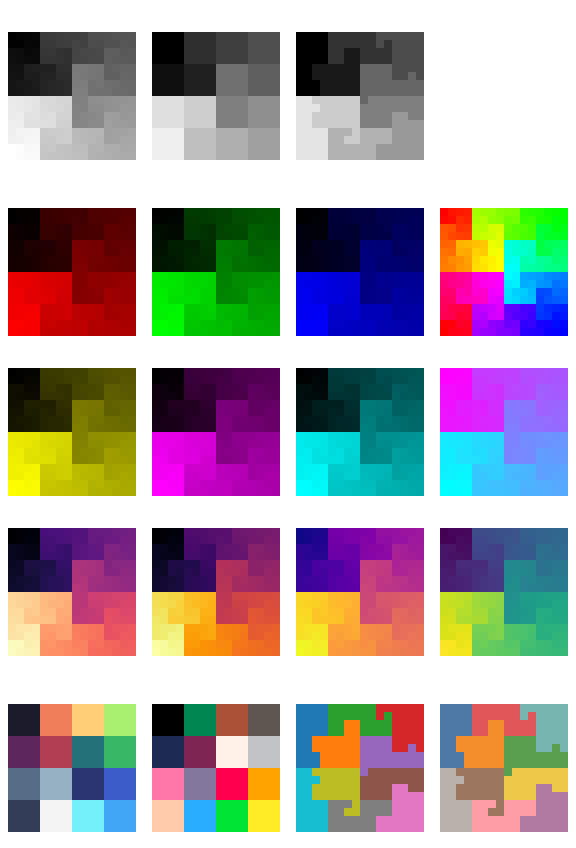
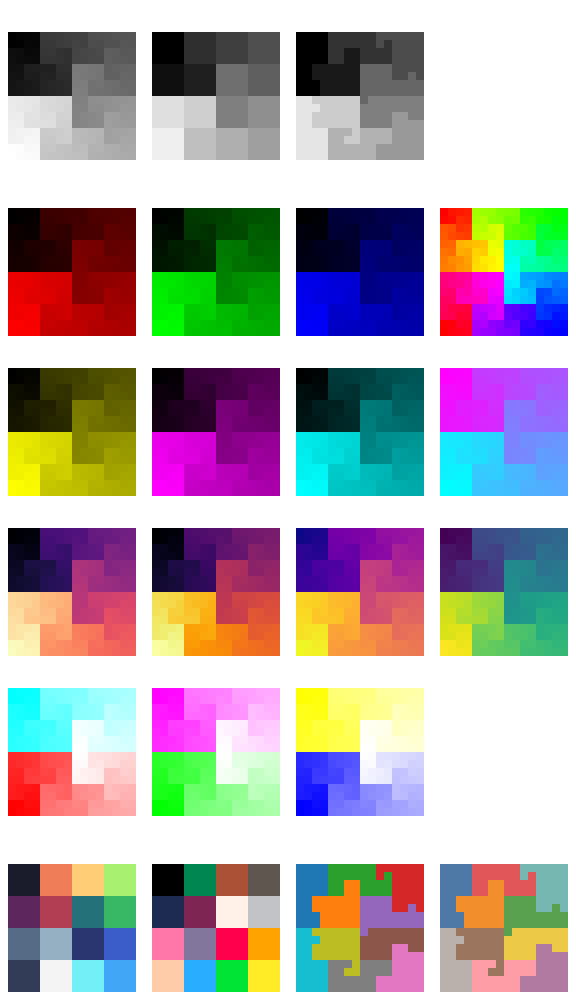
new colormaps

diff --git a/matthewplotlib/colormaps.py b/matthewplotlib/colormaps.py
@@ -119,6 +119,55 @@ def cyans(
 
 
 # # # 
+# DIVERGING CONTINUOUS COLOURMAPS
+
+
+def divreds(
+    x: ArrayLike    # float[...]
+) -> np.ndarray:    # -> uint8[..., 3]
+    """
+    Diverging red/cyan colormap. Uses greyscale value to interpolate between
+    cyan (0.0) and white (0.5) and red (1.0).
+    """
+    x = np.asarray(x)
+    rgb = np.zeros((*x.shape, 3), dtype=np.uint8)
+    rgb[..., 0] = np.minimum(255 * (2 * x), 255)
+    rgb[..., 1] = np.minimum(255 * (2-2*x), 255)
+    rgb[..., 2] = np.minimum(255 * (2-2*x), 255)
+    return rgb
+
+
+def divgreens(
+    x: ArrayLike    # float[...]
+) -> np.ndarray:    # -> uint8[..., 3]
+    """
+    Diverging green/magenta colormap. Uses greyscale value to interpolate
+    between magenta (0.0) and white (0.5) and green (1.0).
+    """
+    x = np.asarray(x)
+    rgb = np.zeros((*x.shape, 3), dtype=np.uint8)
+    rgb[..., 0] = np.minimum(255 * (2-2*x), 255)
+    rgb[..., 1] = np.minimum(255 * (2 * x), 255)
+    rgb[..., 2] = np.minimum(255 * (2-2*x), 255)
+    return rgb
+
+
+def divblues(
+    x: ArrayLike    # float[...]
+) -> np.ndarray:    # -> uint8[..., 3]
+    """
+    Diverging blue/yellow colormap. Uses greyscale value to interpolate between
+    yellow (0.0) and white (0.5) and blue (1.0).
+    """
+    x = np.asarray(x)
+    rgb = np.zeros((*x.shape, 3), dtype=np.uint8)
+    rgb[..., 0] = np.minimum(255 * (2-2*x), 255)
+    rgb[..., 1] = np.minimum(255 * (2-2*x), 255)
+    rgb[..., 2] = np.minimum(255 * (2 * x), 255)
+    return rgb
+
+
+# # # 
 # CUSTOM CONTINUOUS COLOURMAPS
 
 
@@ -126,7 +175,7 @@ def cyber(
     x: ArrayLike    # float[...]
 ) -> np.ndarray:    # -> uint8[..., 3]
     """
-    Cyberpunk colormap. Uses greyscale value to interpolate between meganta
+    Cyberpunk colormap. Uses greyscale value to interpolate between magenta
     (0.) and cyan (1.).
     """
     x = np.asarray(x)

diff --git a/matthewplotlib/plots.py b/matthewplotlib/plots.py
@@ -1734,6 +1734,9 @@ def save_animation(
     * Consider making this a plot aggregator and overriding .saveimg(). The
       only problem is that it's unclear what to use for renderimg and
       renderstr.
+    * Duration is currently broken, seems to be due to Image internally doing a
+      format conversion from RGBA -> P while saving the gif. Should convert
+      beforehand?
     """
     # render plots as image arrays
     frames = [

diff --git a/examples/colormaps.py b/examples/colormaps.py
@@ -42,7 +42,8 @@ plot = mp.vstack(
         for c in [
             mp.reds, mp.greens, mp.blues, mp.rainbow,
             mp.yellows, mp.magentas, mp.cyans, mp.cyber,
-            mp.magma, mp.inferno, mp.plasma, mp.viridis
+            mp.magma, mp.inferno, mp.plasma, mp.viridis,
+            mp.divreds, mp.divgreens, mp.divblues,
         ]
     ], cols=4),
     mp.text("discrete colormaps:"),

diff --git a/matthewplotlib/__init__.py b/matthewplotlib/__init__.py
@@ -4,7 +4,7 @@ them available under the top-level namespace.
 """
 
 
-__version__ = "0.3.4"
+__version__ = "0.3.5"
 
 
 from matthewplotlib.plots import (
@@ -63,6 +63,9 @@ from matthewplotlib.colormaps import (
     yellows,
     magentas,
     cyans,
+    divreds,
+    divgreens,
+    divblues,
     cyber,
     rainbow,
     magma,

diff --git a/DOCS.md b/DOCS.md
@@ -1293,6 +1293,9 @@ TODO:
 * Consider making this a plot aggregator and overriding .saveimg(). The
   only problem is that it's unclear what to use for renderimg and
   renderstr.
+* Duration is currently broken, seems to be due to Image internally doing a
+  format conversion from RGBA -> P while saving the gif. Should convert
+  beforehand?
 
 ---
 
@@ -1374,18 +1377,45 @@ channels.
 
 ---
 
+### function divreds
+
+**divreds(x: ArrayLike) -> np.ndarray:** ([source](https://github.com/matomatical/matthewplotlib/blob/main/matthewplotlib/colormaps.py#L125))
+
+Diverging red/cyan colormap. Uses greyscale value to interpolate between
+cyan (0.0) and white (0.5) and red (1.0).
+
+---
+
+### function divgreens
+
+**divgreens(x: ArrayLike) -> np.ndarray:** ([source](https://github.com/matomatical/matthewplotlib/blob/main/matthewplotlib/colormaps.py#L140))
+
+Diverging green/magenta colormap. Uses greyscale value to interpolate
+between magenta (0.0) and white (0.5) and green (1.0).
+
+---
+
+### function divblues
+
+**divblues(x: ArrayLike) -> np.ndarray:** ([source](https://github.com/matomatical/matthewplotlib/blob/main/matthewplotlib/colormaps.py#L155))
+
+Diverging blue/yellow colormap. Uses greyscale value to interpolate between
+yellow (0.0) and white (0.5) and blue (1.0).
+
+---
+
 ### function cyber
 
-**cyber(x: ArrayLike) -> np.ndarray:** ([source](https://github.com/matomatical/matthewplotlib/blob/main/matthewplotlib/colormaps.py#L125))
+**cyber(x: ArrayLike) -> np.ndarray:** ([source](https://github.com/matomatical/matthewplotlib/blob/main/matthewplotlib/colormaps.py#L174))
 
-Cyberpunk colormap. Uses greyscale value to interpolate between meganta
+Cyberpunk colormap. Uses greyscale value to interpolate between magenta
 (0.) and cyan (1.).
 
 ---
 
 ### function rainbow
 
-**rainbow(x: ArrayLike) -> np.ndarray:** ([source](https://github.com/matomatical/matthewplotlib/blob/main/matthewplotlib/colormaps.py#L140))
+**rainbow(x: ArrayLike) -> np.ndarray:** ([source](https://github.com/matomatical/matthewplotlib/blob/main/matthewplotlib/colormaps.py#L189))
 
 Rainbow colormap. Effectively embeds greyscale values as hue in HSV color
 space.
@@ -1394,7 +1424,7 @@ space.
 
 ### function magma
 
-**magma(x: ArrayLike) -> np.ndarray:** ([source](https://github.com/matomatical/matthewplotlib/blob/main/matthewplotlib/colormaps.py#L188))
+**magma(x: ArrayLike) -> np.ndarray:** ([source](https://github.com/matomatical/matthewplotlib/blob/main/matthewplotlib/colormaps.py#L237))
 
 Magma colormap by Nathaniel J. Smith and Stefan van der Walt (see
 https://bids.github.io/colormap/).
@@ -1405,7 +1435,7 @@ Discretised to 256 8-bit colours.
 
 ### function inferno
 
-**inferno(x: ArrayLike) -> np.ndarray:** ([source](https://github.com/matomatical/matthewplotlib/blob/main/matthewplotlib/colormaps.py#L266))
+**inferno(x: ArrayLike) -> np.ndarray:** ([source](https://github.com/matomatical/matthewplotlib/blob/main/matthewplotlib/colormaps.py#L315))
 
 Inferno colormap by Nathaniel J. Smith and Stefan van der Walt (see
 https://bids.github.io/colormap/).
@@ -1416,7 +1446,7 @@ Discretised to 256 8-bit colours.
 
 ### function plasma
 
-**plasma(x: ArrayLike) -> np.ndarray:** ([source](https://github.com/matomatical/matthewplotlib/blob/main/matthewplotlib/colormaps.py#L344))
+**plasma(x: ArrayLike) -> np.ndarray:** ([source](https://github.com/matomatical/matthewplotlib/blob/main/matthewplotlib/colormaps.py#L393))
 
 Plasma colormap by Nathaniel J. Smith and Stefan van der Walt (see
 https://bids.github.io/colormap/).
@@ -1427,7 +1457,7 @@ Discretised to 256 8-bit colours.
 
 ### function viridis
 
-**viridis(x: ArrayLike) -> np.ndarray:** ([source](https://github.com/matomatical/matthewplotlib/blob/main/matthewplotlib/colormaps.py#L422))
+**viridis(x: ArrayLike) -> np.ndarray:** ([source](https://github.com/matomatical/matthewplotlib/blob/main/matthewplotlib/colormaps.py#L471))
 
 Viridis colormap by Nathaniel J. Smith, Stefan van der Walt, and Eric
 Firing (see https://bids.github.io/colormap/).
@@ -1438,7 +1468,7 @@ Discretised to 256 8-bit colours.
 
 ### function sweetie16
 
-**sweetie16(x: ArrayLike) -> np.ndarray:** ([source](https://github.com/matomatical/matthewplotlib/blob/main/matthewplotlib/colormaps.py#L504))
+**sweetie16(x: ArrayLike) -> np.ndarray:** ([source](https://github.com/matomatical/matthewplotlib/blob/main/matthewplotlib/colormaps.py#L553))
 
 Sweetie-16 colour palette by GrafxKid (see
 https://lospec.com/palette-list/sweetie-16).
@@ -1450,7 +1480,7 @@ cycle).
 
 ### function pico8
 
-**pico8(x: ArrayLike) -> np.ndarray:** ([source](https://github.com/matomatical/matthewplotlib/blob/main/matthewplotlib/colormaps.py#L523))
+**pico8(x: ArrayLike) -> np.ndarray:** ([source](https://github.com/matomatical/matthewplotlib/blob/main/matthewplotlib/colormaps.py#L572))
 
 PICO-8 colour palette (see https://pico-8.fandom.com/wiki/Palette).
 
@@ -1461,7 +1491,7 @@ cycle).
 
 ### function tableau
 
-**tableau(x: ArrayLike) -> np.ndarray:** ([source](https://github.com/matomatical/matthewplotlib/blob/main/matthewplotlib/colormaps.py#L541))
+**tableau(x: ArrayLike) -> np.ndarray:** ([source](https://github.com/matomatical/matthewplotlib/blob/main/matthewplotlib/colormaps.py#L590))
 
 Matplotlib Tableau colourmap.
 
@@ -1472,7 +1502,7 @@ cycle).
 
 ### function nouveau
 
-**nouveau(x: ArrayLike) -> np.ndarray:** ([source](https://github.com/matomatical/matthewplotlib/blob/main/matthewplotlib/colormaps.py#L558))
+**nouveau(x: ArrayLike) -> np.ndarray:** ([source](https://github.com/matomatical/matthewplotlib/blob/main/matthewplotlib/colormaps.py#L607))
 
 Updated Tableau colourmap (more accessible).
 

diff --git a/CHANGELOG.md b/CHANGELOG.md
@@ -23,6 +23,13 @@ In development:
 
 TODO.
 
+Version 0.3.5
+-------------
+
+New:
+
+* Diverging colormaps divreds, divgreens, divblues.
+
 Version 0.3.4
 -------------
 
